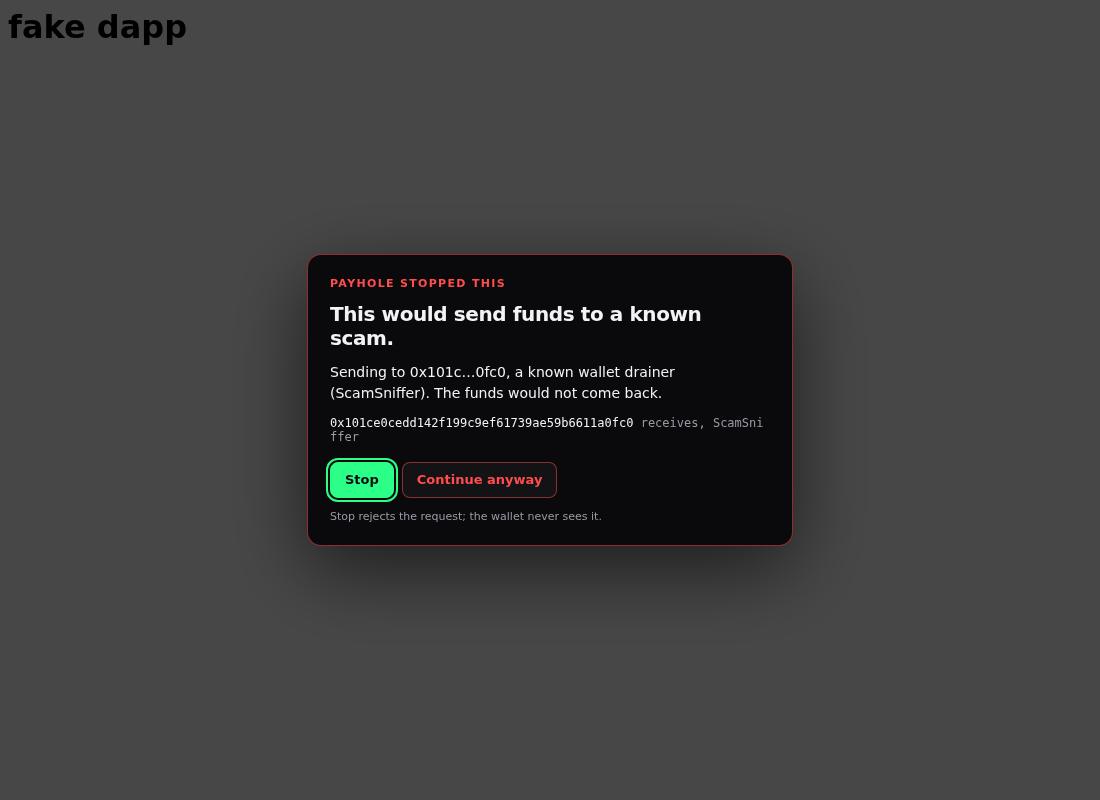
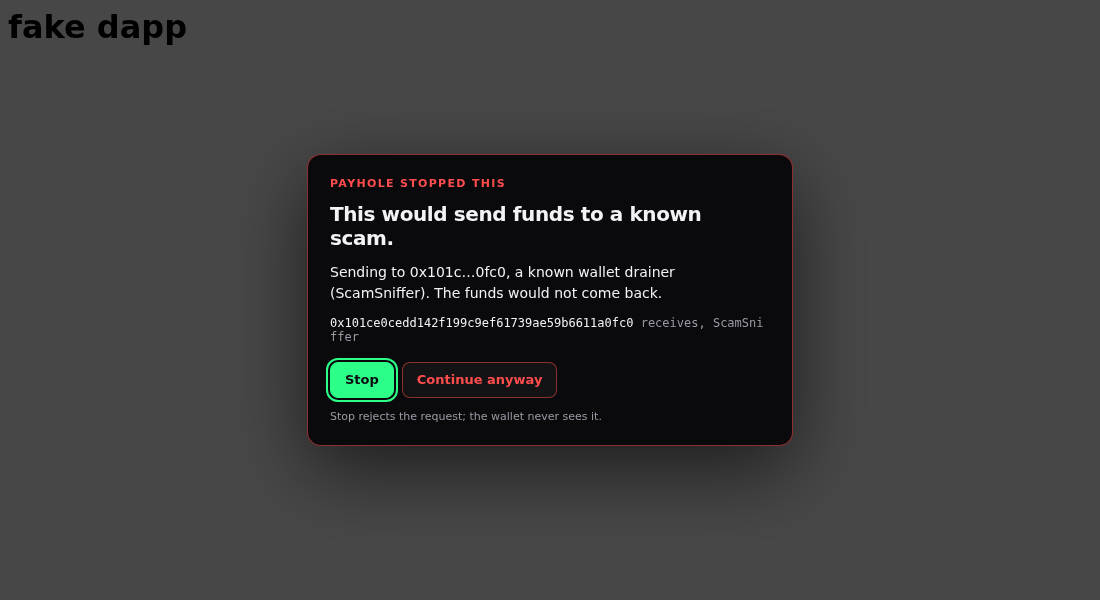
extension: store listing kit for 0.3.0
The listing text, single-purpose statement, permission justifications,
and data disclosure describe the shield and the wallet guard; the four
frames show the wall, the guard's warning, the popup, and the Reports tab.

Changed region(s): [[0.2782, 0.24, 0.7418, 0.75], [0.0, 0.0, 0.1855, 0.09]]

diff --git a/packages/extension/store/listing.md b/packages/extension/store/listing.md
@@ -2,95 +2,110 @@
 
 Everything the developer console asks for, in the order it asks. Upload `.output/payholeextension-<version>-chrome.zip`
 (build with `pnpm build && pnpm zip`; the version in `package.json` must go up on every upload). Images are in this
-directory: `1-pages-pay-themselves.png` to `4-over-the-cap-one-prompt.png` (1280 by 800), `promo-small-440x280.png`,
-`promo-marquee-1400x560.png`, and the icon is `public/icon/128.png`. Regenerate with `pnpm exec tsx scripts/store-shots.ts`
-then `node scripts/store-frames.mjs`.
+directory: `1-scam-pages-stop.png` to `4-reports-that-pay.png` (1280 by 800), `promo-small-440x280.png`,
+`promo-marquee-1400x560.png`, and the icon is `public/icon/128.png`. Regenerate the frames with
+`node scripts/store-frames.mjs` after refreshing the raw captures in `store/raw`.
+
+The listing is live at https://chromewebstore.google.com/detail/calplcemfhaiomnhjphgmicdamdjhhep. Every field below
+replaces what the first submission said; the extension changed from a spending pocket to a shield in 0.2 and 0.3.
 
 ## Store listing tab
 
 Name: PayHole
 
 Summary (132 characters max):
-A capped spending pocket on Robinhood Chain that pays websites, tools, and agents over x402 while you browse.
+Scam links stop loading, and drainers stop before your wallet opens. Checks every site and every wallet request.
 
-Category: Productivity. Language: English.
+Category: Privacy & Security (Tools if the console does not offer it). Language: English.
 
 Description:
 
-PayHole gives your browser a spending pocket. You fund it with USDG on Robinhood Chain and set a cap. When a page,
-an API, or a tool answers with HTTP 402 and a price, PayHole pays it from an address that exists only for that site,
-retries the request, and the page loads. Under the cap you never see a prompt. Over the cap you get one.
+PayHole stops crypto scams in two places: the page and the wallet.
+
+Every site you open is checked against the PayHole resolver, the same answer the PayHole app gives on a phone. A
+known wallet drainer, phishing page, or counterfeit token site never loads. In its place you see what the name is and
+who says so, with Go back or Open once. A name the browser has already seen blocked is stopped inside the browser
+before a single request leaves.
+
+Before MetaMask, Rabby, or any wallet opens, PayHole reads what the page asked for: a send, an approval, a permit, a
+signature. Every address in it is checked against the network's list of drainer contracts and the wallets behind
+them. A known one is stopped with a warning you can override; an unlimited approval to an address nobody knows gets a
+heads-up. It works with every wallet, on every EVM chain, and never touches a seed.
 
 What it does
-- Pays x402 requests (the open payment standard built on HTTP 402) with USDG, on Robinhood Chain, chain id 4663.
-- Gives every site its own address, derived from your seed. A site sees only what it was paid. It never learns your
-  other addresses, your balance, or what you paid elsewhere.
-- Enforces caps on chain and in the extension: a cap per site, a shared cap for agent keys, and a prompt threshold.
-- Keeps a ledger of every payment with the settlement transaction, in your browser only.
-- Blocks known payment-drainer and tracker domains from a blocklist you control, before the browser connects to them.
-- Lets you tip registered creators per visit, off by default.
-- Hands out capped session keys for agents and command-line tools, so a script can pay from the same pocket
-  without ever holding your seed.
+- Checks each site as it loads and walls off listed names: drainers, phishing, counterfeit token sites.
+- Reads wallet requests before the wallet sees them and stops sends, approvals, and permits to known drainer
+  addresses. Optional warning on unlimited approvals.
+- Shows a badge on blocked tabs; the popup gives the verdict for any site, a box to check any link or address, and a
+  report button.
+- Right-click any link: Check this link with PayHole.
+- Reports are signed by a key that lives in the extension. Name a rewards wallet and confirmed first reports pay in
+  USDG. Link the key to a tier holder's wallet on payhole.org and reports count as that wallet's flags.
+- Point it at your own PayHole resolver on your network if you run one.
 
 What it does not do
-- No account, no sign-up, no analytics, no telemetry. Your seed never leaves your device.
-- No custody. Funds sit in a BudgetAccount contract that only your owner key controls; withdraw at any time.
-- No rewards, cashback, or token emissions of any kind.
+- No account, no sign-up, no analytics, no telemetry. The only thing that leaves the browser is the hostname of a
+  site or the addresses in a wallet request, sent to the resolver you chose, which answers from memory and keeps no
+  log.
+- No wallet, no keys to your funds, no custody. The guard only reads requests. (An optional x402 spending pocket for
+  Robinhood Chain is included, off by default, for sites that charge per page.)
+- No rewards in a token, ever. Bounties are paid in USDG by the project.
 
 Getting started
-1. Create a seed and a password. Write the recovery phrase down.
-2. Send a little USDG and a little ETH for gas to the owner address shown in the dashboard.
-3. Create the pocket, top it up, and browse. Try it on payhole.org/try.html, a real article behind a real 402.
+1. Pin the icon. Everything is on from the first page.
+2. Open the dashboard from the popup for the session log, the switches, and your reporter key.
+3. To earn bounties, add a rewards wallet in the Reports tab.
 
-Open source under the MIT license at github.com/S4PAY/payhole. Contracts are verified on Robinhood Chain. Privacy
-policy at payhole.org/privacy.html.
+Open source under the MIT license. Privacy policy at payhole.org/privacy.html.
 
 Official URL: https://payhole.org
 Homepage URL: https://payhole.org
-Support URL: https://github.com/S4PAY/payhole/issues
+Support URL: https://payhole.org/extension.html
 Contact email: hello@payhole.org
 
 ## Privacy tab
 
 Single purpose description:
-PayHole is a capped spending pocket for the browser. When a website or API answers a request with HTTP 402 and a
-price, the extension pays that price in USDG from an address dedicated to that site, within limits the user set, and
-retries the request. Every other feature exists to run that pocket: funding it, setting caps, reviewing the ledger,
-approving a payment above a cap, and blocking known payment-drainer domains.
+PayHole protects the browser from crypto scams: it stops known scam sites before they load and stops wallet requests
+that would send funds, approvals, or permits to known drainer addresses. Every other feature exists to run that
+protection: checking a link or address by hand, reporting one, showing what was stopped, and choosing the resolver.
 
 Permission justifications:
 
-- storage: keeps the encrypted vault, per-site caps, the payment ledger, the blocklist, and settings on the device.
-  Nothing is synced or sent to us.
-- alarms: refreshes balances and the blocklist on a schedule while the browser is idle, so the popup is current
-  and blocking rules stay up to date.
-- tabs: reads the origin of the active tab so the popup shows the pocket, address, and spend for the site you are on,
-  and opens the dashboard and approval pages in tabs.
-- webRequest: observes responses with status 402 and the payment headers they carry. That is the only way to notice
-  that a page or API asked to be paid. Request bodies are never read.
-- webNavigation: notices page loads that ended in a 402, so a top-level navigation can be paid and reloaded, and
-  clears the one-time payment header rule afterwards.
-- declarativeNetRequest and declarativeNetRequestWithHostAccess: adds the payment header to exactly one retried
-  request per payment, and blocks domains on the user's blocklist before the browser connects to them.
-- Host permission on all sites: a 402 can come from any site or API, and payment must work wherever the user
-  browses. The extension only acts on responses with status 402 and on domains the user has chosen to block; it does
-  not read or change page content otherwise.
+- Host permission on all sites: a scam page can be on any site, and a wallet request can come from any page, so the
+  extension must see navigations and wallet requests everywhere. It reads only the hostname of each navigation and
+  the requests a page makes to a wallet.
+- webNavigation: to notice a page load as it starts, ask the resolver about the name, and send a listed one to the
+  wall page before it loads.
+- declarativeNetRequest and declarativeNetRequestWithHostAccess: to redirect a name the browser already saw blocked
+  to the wall page before any request leaves, and to block domains from the user's own list.
+- tabs: to know which site is in the active tab so the popup and the badge show the right verdict, and to open the
+  wall page.
+- contextMenus: for "Check this link with PayHole" and "Check this page with PayHole".
+- webRequest: to notice HTTP 402 responses when the optional spending pocket is on. Request bodies are never read.
+- storage: to keep settings, the reporter key, the rewards wallet, the user's own blocklist, and the session log on
+  the device; with the pocket on, the encrypted vault and the ledger too. Nothing is synced or sent to us.
+- alarms: to refresh the user's own blocklist on a schedule while the extension is idle.
+- Content scripts on all sites: one in the page's world wraps the wallet's request function so a request can be read
+  before the wallet sees it; one in the isolated world shows the warning and talks to the extension.
 
-Remote code: No. All code ships in the package. The extension talks to the Robinhood Chain RPC endpoint, to the site
-being paid, and to the facilitator that site names, over plain HTTPS requests. No scripts are fetched or evaluated.
+Remote code: No. All code ships in the package. The extension talks over plain HTTPS to the resolver the user chose
+(dns.payhole.org by default) for verdicts, address checks, and reports; with the pocket on, also to the Robinhood
+Chain RPC endpoint, to the site being paid, and to the facilitator that site names. No scripts are fetched or
+evaluated.
 
-Data usage, what to tick:
-- Financial and payment information: yes. The extension creates signed USDG transfer authorizations and sends them to
-  the website being paid or the facilitator that site names, at the user's request. Amounts and addresses are public
-  on chain by nature.
-- Everything else: no. No personally identifiable information, health, authentication, personal communications,
-  location, web history, user activity, or website content is collected or transmitted. The ledger and settings stay
-  in the browser's local extension storage.
-- Certifications: tick all three. Data is not sold to third parties, not used for purposes unrelated to the single
-  purpose, and not used to determine creditworthiness or for lending.
-
-Privacy policy URL: https://payhole.org/privacy.html
+Data usage disclosure:
+- Web history: the hostname of each site the user opens is sent to the resolver to learn whether it is listed. It is
+  answered from memory and not stored by the resolver; the extension keeps the answer in memory for a while.
+- Financial and payment information: the addresses in a wallet request are sent to the resolver to learn whether any
+  is a known drainer; with the pocket on, payment authorizations are signed and sent to the site being paid.
+- Certifications: data is not sold to third parties, not used or transferred for purposes unrelated to the
+  extension's single purpose, and not used or transferred to determine creditworthiness or for lending.
 
 ## Distribution tab
 
-Visibility: Public. Regions: all. Pricing: free. Mature content: no.
+Visibility: Public. Regions: all. Free.
+
+## Trader declaration
+
+Non-trader. The publisher is an individual without a registered business; the extension is free and open source.
